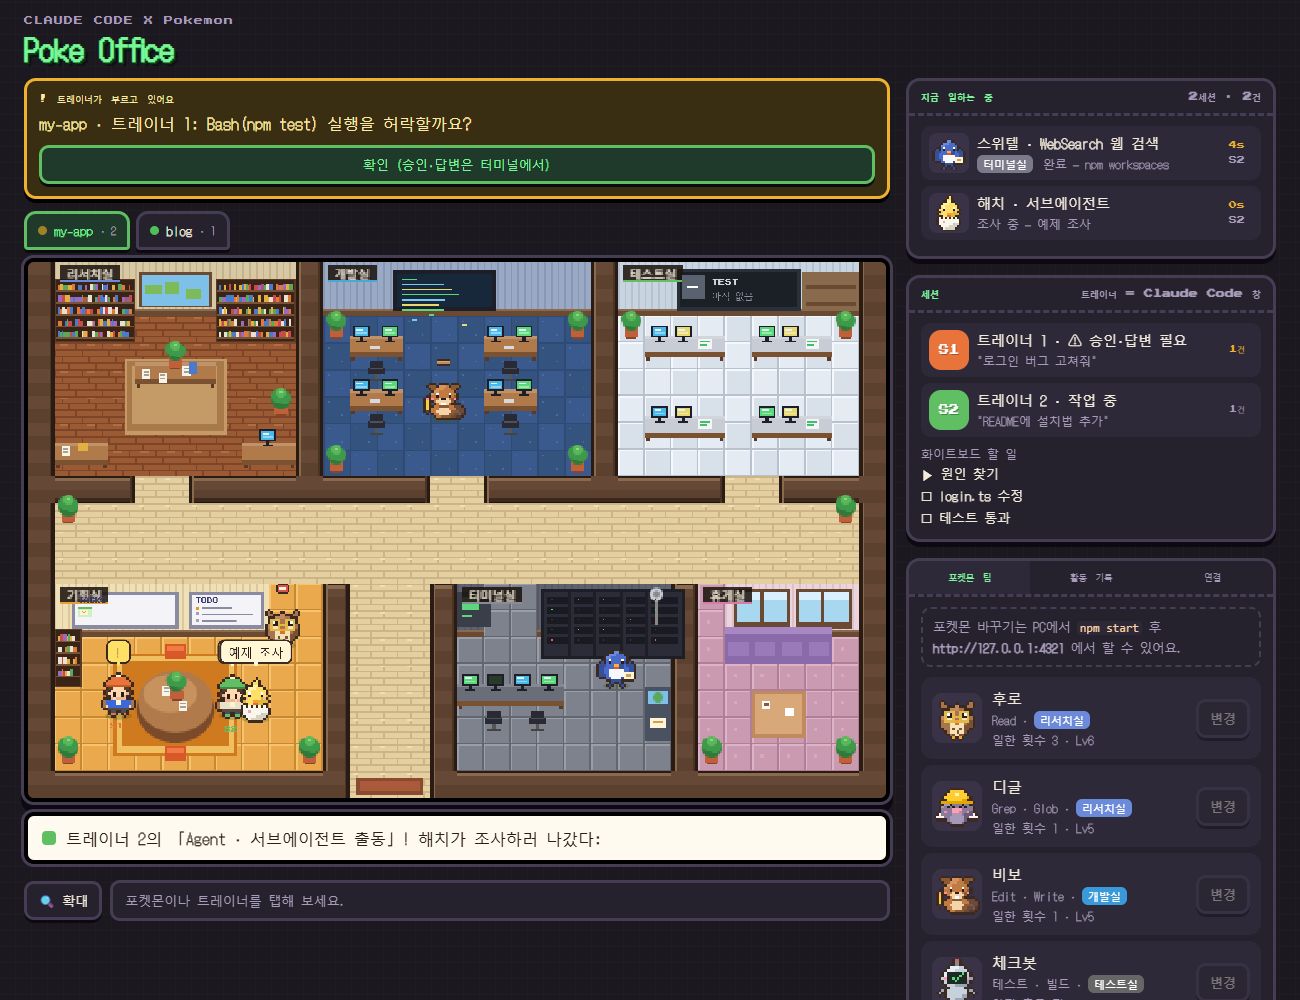
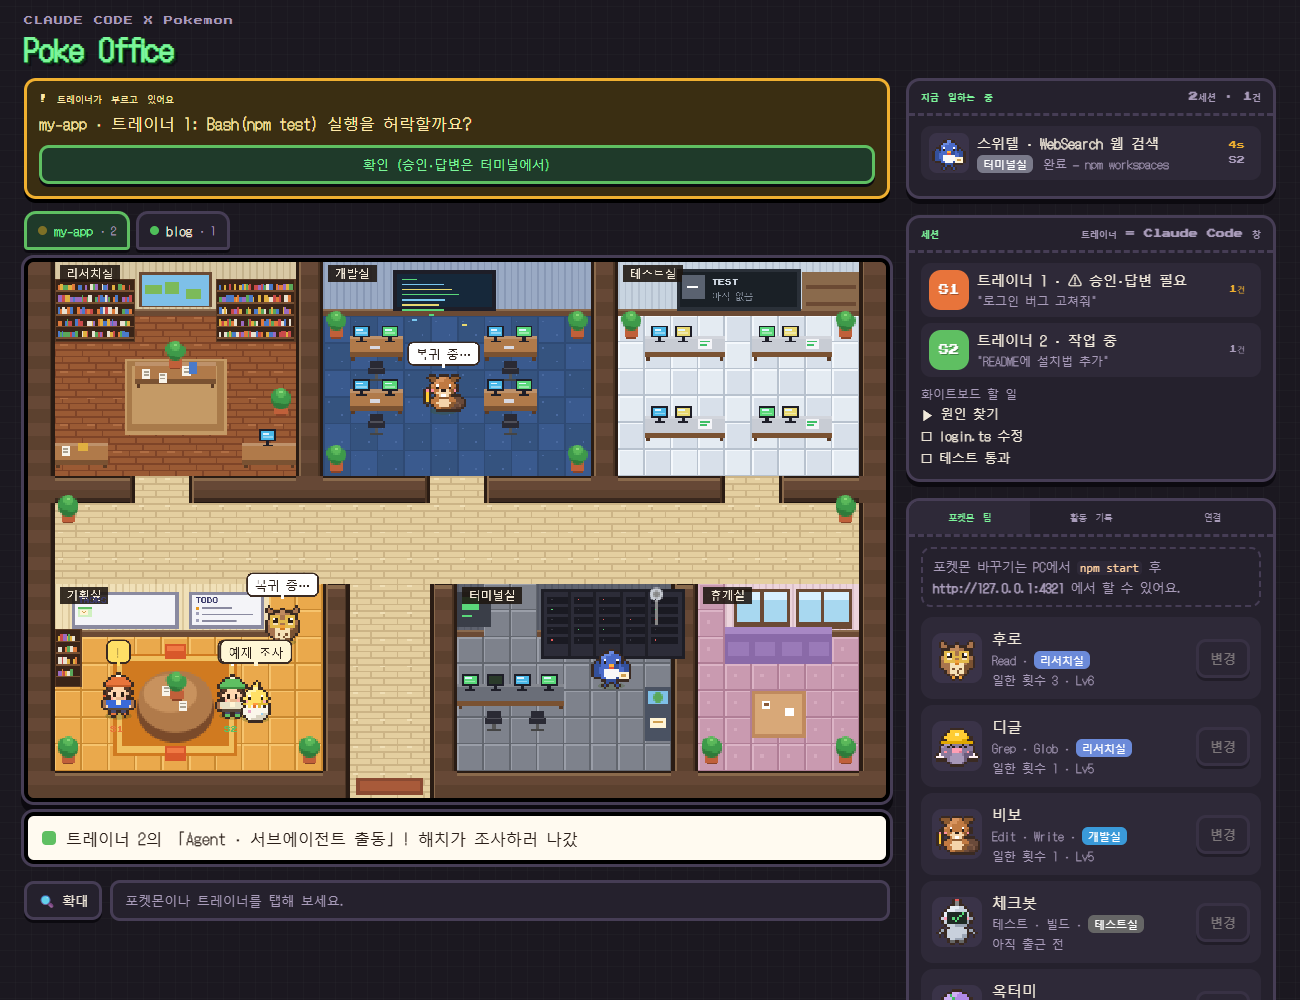
feat: show status bubbles instead of carried items and draw crisp room labels

diff --git a/index.html b/index.html
@@ -427,9 +427,11 @@ function drawMap(){buildGrid();
   for(let ty=0;ty<MH;ty++)for(let tx=0;tx<MW;tx++){const g=GRID[ty][tx],x=tx*T,y=ty*T;
     if(g.startsWith('floor:'))FLOOR[g.slice(6)](x,y,tx,ty);else if(g.startsWith('F:')){const room=g.slice(2);const r=ROOMS[room];paintFace(x,y,room,ty===r.y0-1?1:0);}else paintWall(x,y,tx,ty);}
   drawFurniture();
-  Object.values(ROOMS).forEach(r=>{if(!r.ko)return;const x=r.x0*T+3,y=(r.y0-r.face)*T+2;m.font='7px "DotGothic16", sans-serif';const w=m.measureText(r.ko).width+8;
-    R(x,y,w,10,'rgba(30,22,16,.88)');R(x,y+9,w,1,r.tag);m.fillStyle='#f4ead8';m.fillText(r.ko,x+4,y+8);});
 }
+// 방 이름표: 늘리지 않고 화면 해상도로 직접 그려서 글자가 선명해요
+function drawLabels(){ctx.font=`${7*S}px "DotGothic16", sans-serif`;ctx.textBaseline='alphabetic';
+  Object.values(ROOMS).forEach(r=>{if(!r.ko)return;const x=px(r.x0*T+3),y=px((r.y0-r.face)*T+2),w=ctx.measureText(r.ko).width+8*S;
+    ctx.fillStyle='rgba(30,22,16,.88)';ctx.fillRect(x,y,w,10*S);ctx.fillStyle='#f4ead8';ctx.fillText(r.ko,x+4*S,y+8*S);});}
 function animMap(t){
   for(let i=0;i<5;i++)for(let j=0;j<5;j++){const on=Math.sin(t/200+i*1.3+j*2.1)>0;ctx.fillStyle=on?(j%2?'#5ad87a':'#e85a5a'):'#3a3a44';ctx.fillRect(px(19*T+2+i*15.6+6),px(12.2*T+6+j*6),S,S);}
   for(let i=0;i<3;i++){ctx.fillStyle=['#5ad87a','#7ac8f0','#e8d870'][i];ctx.fillRect(px(13.6*T+5+((t/40+i*30)%40)),px(.3*T+26+i*3),3*S,S);}
@@ -726,7 +728,7 @@ function frame(ts){TS=Math.min(1.9,Math.max(1,900/(cv.clientWidth||900)));const 
     town.trainers.forEach(tr=>{if(tr.path.length){const p=tr.path[0];if(stepTo(tr,p.x,p.y,.055*dt)){tr.path.shift();if(!tr.path.length){const r=tr.arrive;tr.arrive=null;r&&r();}}}
       if((tr.state==='idle'||tr.state==='think')&&now.t-tr.last>IDLE_MS()&&!town.jobs.some(j=>j.tr===tr)){tr.state='sleep';tr.bubble=null;renderTowns();if(town.name===active)renderSide();}});});
   const town=towns.get(active);
-  ctx.drawImage(map,0,0,BW*S,BH*S);animMap(now.t);
+  ctx.drawImage(map,0,0,BW*S,BH*S);animMap(now.t);drawLabels();
   if(town){
     drawBoards(town);
     const ents=[];
@@ -740,11 +742,12 @@ function frame(ts){TS=Math.min(1.9,Math.max(1,900/(cv.clientWidth||900)));const 
       if(mo.state==='rest'&&!moving){ctx.font=`${5*S}px 'Press Start 2P'`;ctx.fillStyle='#e8a0c0';ctx.fillText('♪',px(mo.x+8),px(mo.y-h-((now.t/300)%6)));}
       if(mo.state==='cheer'){ctx.font=`${5*S}px 'Press Start 2P'`;ctx.fillStyle='#ffcf3a';ctx.fillText('✦',px(mo.x-10),px(mo.y-h));}
       if(mo.state==='sad'){ctx.fillStyle='#6cc4ff';ctx.fillRect(px(mo.x+8),px(mo.y-h+2+((now.t/80)%4)),2*S,3*S);}
-      if(mo.carry){const it=ITEM[mo.role==='sub'?'read':mo.role];ctx.drawImage(it,px(mo.x-4),px(mo.y-h-10),8*S,8*S);}
       if(mo.helper&&mo.role!=='sub'){ctx.font=`${4*S}px 'Press Start 2P'`;ctx.fillStyle='#fff';ctx.fillText('+',px(mo.x+6),px(mo.y-h+2));}
       if(selected===mo.role&&!mo.helper){ctx.strokeStyle='#3f9a5a';ctx.lineWidth=S;ctx.strokeRect(px(mo.x-14),px(mo.y-h-2),28*S,(h+4)*S);}
       if(mo.state==='work'&&mo.job)bubble(mo.x,mo.y,`${mo.job.tool} · ${mo.job.detail}`,'#fff',h+6);
-      if(mo.state==='subwork')bubble(mo.x,mo.y,mo.job.detail,'#fff7d6',h+6);}}));
+      if(mo.state==='subwork')bubble(mo.x,mo.y,mo.job.detail,'#fff7d6',h+6);
+      const st={cheer:['완료!','#e2f7e4'],sad:['실패…','#ffe1e1'],return:['복귀 중…','#fff'],subdone:['복귀 중…','#fff']}[mo.state];
+      if(st)bubble(mo.x,mo.y,st[0],st[1],h);}}));
     town.trainers.forEach(tr=>ents.push({y:tr.y,draw:()=>{const moving=tr.path.length>0;const f=moving?Math.floor(now.t/130)%2:tr.state==='wait'?Math.floor(now.t/90)%2:Math.floor(now.t/800)%2;
       shadow(tr.x,tr.y);const h=drawImg(trainerImg(tr.color,f),tr.x,tr.y-(moving||tr.state==='wait'?f:0),(tr.faceUntil&&now.t<tr.faceUntil)?tr.face:moving?tr.face:tr.lounge?1:(tr.x>5.5*T?-1:1),{cu:!!custom.trainer});
       ctx.fillStyle=HATS[tr.color][0];ctx.font=`${4*S}px 'Press Start 2P'`;ctx.fillText('S'+tr.no,px(tr.x-5),px(tr.y+9));
